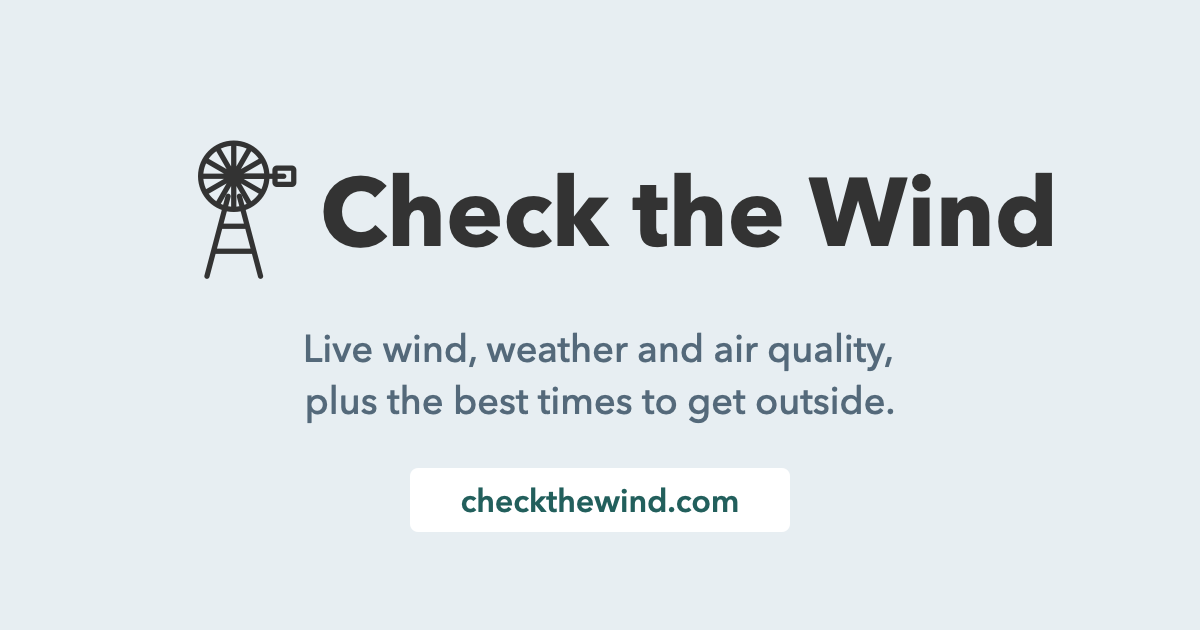
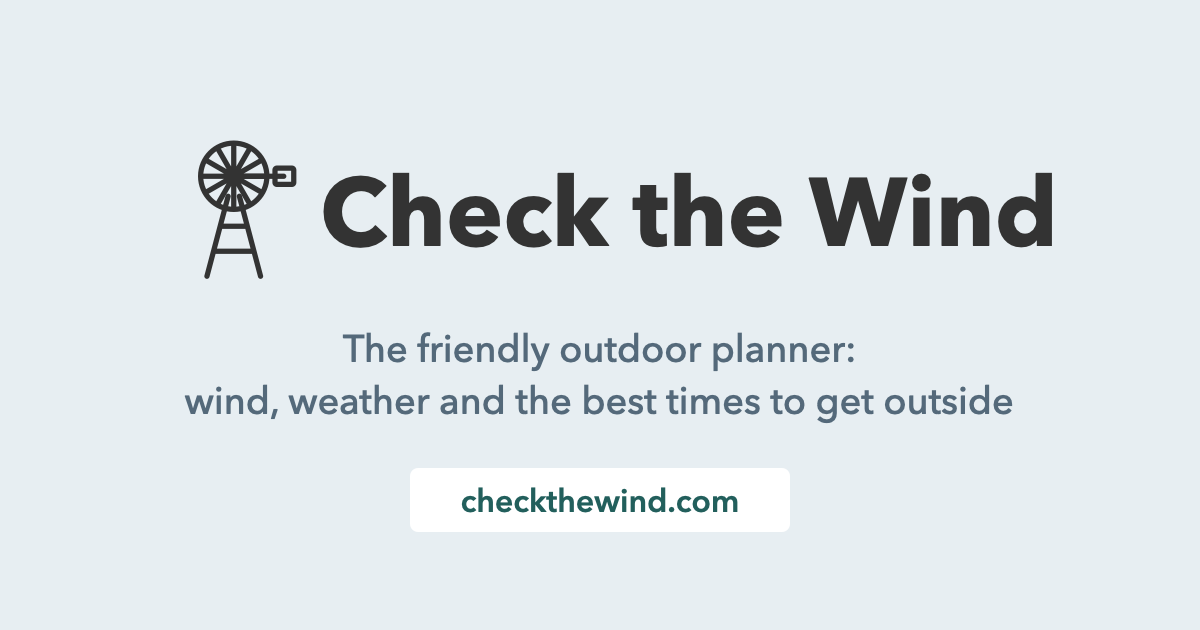
Precipitation wording uses the real type (rain, snow, sleet, mixed precip, hail); thumbnail copy updated
- Type comes from the forecast wording, or the temperature when the wording only gives a chance
- Applies to the hero sentence, weak points, reasons, Best Times cards and share text, the detail dialog row, and the Current Conditions ground hints
- Thumbnail: The friendly outdoor planner: wind, weather and the best times to get outside
- phrasing.csv updated

Changed region(s): [[0.1542, 0.5127, 0.8633, 0.6937]]

diff --git a/index.html b/index.html
@@ -2854,6 +2854,20 @@
     return '<svg width="'+size+'" height="'+size+'" viewBox="0 0 48 48" fill="none" xmlns="http://www.w3.org/2000/svg">'+body+'</svg>';
   }
 
+  // The kind of precipitation an hour is carrying: rain, snow, sleet, mixed precip or hail. The forecast wording decides; when it only
+  // gives a chance without a type, the temperature does (32°F or colder snow, up to 36°F mixed, otherwise rain).
+  function precipType(text, temp){
+    var t = String(text || '').toLowerCase();
+    if(/hail/.test(t)) return 'hail';
+    if(/wintry mix|mixed|rain and snow|snow and rain|rain\/snow|snow\/rain|rain or snow|snow or rain/.test(t)) return 'mixed precip';
+    if(/sleet|freezing rain|freezing drizzle|ice pellets|\bice\b/.test(t)) return 'sleet';
+    if(/snow|flurr|blizzard/.test(t)) return /rain|shower|drizzle/.test(t) ? 'mixed precip' : 'snow';
+    if(/rain|shower|drizzle|thunder|storm/.test(t)) return 'rain';
+    if(typeof temp === 'number'){ if(temp <= 32) return 'snow'; if(temp <= 36) return 'mixed precip'; }
+    return 'rain';
+  }
+  function aOrAn(n){ n = Math.round(n); return (n === 8 || n === 11 || n === 18 || (n >= 80 && n <= 89)) ? 'an' : 'a'; }
+
   function groundCondition(current, todayDaily){
     var temp = current.temperature;
     var freezing = typeof temp === 'number' && temp <= 32;
@@ -2865,13 +2879,13 @@
     var hasRain = /rain|shower|drizzle|thunderstorm/.test(text);
 
     if(hasIce || (freezing && hasRain)){
-      return {key:'icy', label:'Icy', hint:'Freezing temps with precipitation'};
+      return {key:'icy', label:'Icy', hint:'Freezing temps with ' + (hasIce && !hasRain ? 'sleet' : hasIce ? 'mixed precip' : 'rain')};
     }
     if(hasSnow && freezing){
       return {key:'snowy', label:'Snowy', hint:'Snow accumulating or expected'};
     }
     if(hasSnow || hasRain){
-      return {key:'wet', label:'Wet', hint:'Recent or expected precipitation'};
+      return {key:'wet', label:'Wet', hint:'Recent or expected ' + (hasSnow && hasRain ? 'mixed precip' : hasSnow ? 'snow' : 'rain')};
     }
     return {key:'dry', label:'Dry', hint:'No precipitation expected'};
   }
@@ -4729,7 +4743,8 @@
       if(!daylight) why.push('it\u2019s dark out');
       if(hz) why.push(hz.toLowerCase());
       if(mph >= P.wind) why.push('wind up to ' + fmtWind(mph));
-      if(P.pop < 100 && pop >= P.pop) why.push(Math.round(pop) + '% chance of precipitation');
+      var ptype = precipType(p.shortForecast, temp);
+      if(P.pop < 100 && pop >= P.pop) why.push(Math.round(pop) + '% chance of ' + ptype);
       if(icyOrSnowy) why.push('snowy or icy ground');
       if(temp < P.tmin) why.push('cold at ' + fmtTemp(temp));
       if(temp > P.tmax) why.push('hot at ' + fmtTemp(temp));
@@ -4747,7 +4762,7 @@
       wet = Math.min(1, wet * wetDecay(temp) + intensity * 0.6);
       frozen = Math.min(1, frozen * wetDecay(temp) + (frozenText ? intensity * 0.6 : 0));
 
-      return {i: i, iso: p.startTime, hour: hour, temp: temp, mph: mph, dir: p.windDirection || '', pop: pop, hum: hum, wet: groundNow, aqi: aqi, ok: ok, score: score, why: why, fc: p.shortForecast || ''};
+      return {i: i, iso: p.startTime, hour: hour, temp: temp, mph: mph, dir: p.windDirection || '', pop: pop, ptype: ptype, hum: hum, wet: groundNow, aqi: aqi, ok: ok, score: score, why: why, fc: p.shortForecast || ''};
     });
   }
 
@@ -5021,7 +5036,7 @@
     rows.push(['Sky', skies.join(', ') || 'NA']);
     var wLo = Math.round(Math.min.apply(null, winds)), wHi = Math.round(Math.max.apply(null, winds));
     rows.push(['Wind', (wLo === wHi ? fmtWind(wHi) : windNum(wLo) + '–' + fmtWind(wHi)) + ' · ' + band.label + (o.dir && dirWord(o.dir) ? ', from the ' + dirWord(o.dir) : '')]);
-    rows.push(['Chance of precipitation', 'Up to ' + Math.round(o.popMax) + '%']);
+    rows.push(['Chance of ' + (o.popMax >= 5 && o.ptype ? o.ptype : 'precipitation'), 'Up to ' + Math.round(o.popMax) + '%']);
     rows.push(['Ground', groundWord(o.wetMax)]);
     if(o.humVals.length){
       var hLo = Math.round(Math.min.apply(null, o.humVals)), hHi = Math.round(Math.max.apply(null, o.humVals));
@@ -5065,6 +5080,7 @@
       var tempText = (tempNum(tMinRaw) === tempNum(tMaxRaw) ? tempNum(tMaxRaw) : tempNum(tMinRaw) + '–' + tempNum(tMaxRaw)) + (useCelsius ? '°C' : '°F');
       var peak = h.reduce(function(a, x){ return x.mph > a.mph ? x : a; }, h[0]);
       var midHr = h[Math.floor(h.length / 2)];
+      var peakPop = h.reduce(function(a, x){ return x.pop > a.pop ? x : a; }, h[0]);
       var humVals = h.filter(function(x){ return x.hum !== null; }).map(function(x){ return x.hum; });
       var humAvg = humVals.length ? Math.round(humVals.reduce(function(a, b){ return a + b; }, 0) / humVals.length) : null;
       return {
@@ -5077,10 +5093,10 @@
         sky: midHr.fc || '',
         skyIcon: weatherIcon(midHr.fc, true, 30),
         summary: vdGoodSentence(vdAgg(h)),
-        detail: bestDetail(h, {day: day, time: when, temp: tempText, mph: mph, dir: peak.dir, popMax: popMax, wetMax: wetMax, aqiMax: aqiMax, humVals: humVals, humAvg: humAvg}),
+        detail: bestDetail(h, {day: day, time: when, temp: tempText, mph: mph, dir: peak.dir, popMax: popMax, ptype: peakPop.ptype, wetMax: wetMax, aqiMax: aqiMax, humVals: humVals, humAvg: humAvg}),
         shareHead: day + ', ' + new Date(dateStr + 'T12:00:00').toLocaleDateString('en-US', {month: 'short', day: 'numeric'}) + ', ' + when,
         shareConds: [tempText, ampText(midHr.fc || '').toLowerCase(), fmtWind(mph) + ' wind',
-          popMax < 5 ? 'no precipitation expected' : Math.round(popMax) + '% chance of precipitation'].filter(Boolean).join(', ')
+          popMax < 5 ? 'no precipitation expected' : Math.round(popMax) + '% chance of ' + peakPop.ptype].filter(Boolean).join(', ')
       };
     });
 
@@ -5257,6 +5273,11 @@
         var t = fmtH12(pk.hour);
         return t.n + ' ' + t.ap;
       })(),
+      popType: (function(){
+        var pk = hs[0];
+        hs.forEach(function(h){ if(h.pop > pk.pop) pk = h; });
+        return pk.ptype || 'rain';
+      })(),
       wet: Math.max.apply(null, hs.map(function(h){ return h.wet; })),
       aqi: aq.length ? Math.round(Math.max.apply(null, aq)) : null
     };
@@ -5286,16 +5307,15 @@
     if(a.wet < 0.15 && a.pop < 10){
       return vdCap(vdFeel(a.tAvg)) + ', ' + wind + ' and dry' + (air ? ', with ' + air : '') + '.';
     }
-    var an = a.pop === 8 || a.pop === 11 || a.pop === 18 || (a.pop >= 80 && a.pop <= 89);   // "an 8% chance", "a 30% chance"
-    var precip = a.pop >= 5 ? (an ? 'an ' : 'a ') + a.pop + '% chance of precipitation around ' + a.popAt : 'no precipitation expected';
+    var precip = a.pop >= 5 ? aOrAn(a.pop) + ' ' + a.pop + '% chance of ' + a.popType + ' around ' + a.popAt : 'no precipitation expected';
     return vdCap(vdFeel(a.tAvg)) + ' and ' + wind + ', with ' + precip + (air ? ' and ' + air : '') + '.';
   }
   function vdWeakPoints(a){
     var w = [];
     if(a.wMax >= 16) w.push('wind up to ' + fmtWind(a.wMax));
     if(a.tAvg < 40) w.push('chilly at ' + fmtTemp(a.tAvg)); else if(a.tAvg > 88) w.push('hot at ' + fmtTemp(a.tAvg));
-    if(a.pop >= 30) w.push(a.pop + '% chance of precipitation around ' + a.popAt);
-    else if(a.wet >= 0.15) w.push(a.pop >= 5 ? a.pop + '% chance of precipitation around ' + a.popAt : 'damp ground');
+    if(a.pop >= 30) w.push(a.pop + '% chance of ' + a.popType + ' around ' + a.popAt);
+    else if(a.wet >= 0.15) w.push(a.pop >= 5 ? a.pop + '% chance of ' + a.popType + ' around ' + a.popAt : 'damp ground');
     if(a.aqi !== null && a.aqi > 50) w.push('moderate air quality');
     return w;
   }
@@ -5375,7 +5395,7 @@
       // Stay Aware: it's fine to be out right now, but weather (rain, snow, wind, storms) arrives within the next 3 hours
       if(!severe && !r.night && (r.state === 'yes' || (r.state === 'maybe' && r.hs && r.hs[0].i === 0))){
         for(var k = 1; k <= 3 && k < hrs.length; k++){
-          var wx = hrs[k].why.filter(function(w){ return /^(thunderstorms|rain|showers|snow)$|chance of precipitation|^wind up to|snowy or icy/.test(w); });
+          var wx = hrs[k].why.filter(function(w){ return /^(thunderstorms|rain|showers|snow)$|chance of (?:rain|snow|sleet|mixed precip|hail|precipitation)|^wind up to|snowy or icy/.test(w); });
           if(wx.length){ r.incoming = {i: k, why: wx}; break; }
         }
       }
@@ -5405,7 +5425,7 @@
       if(/dark out/.test(w)) phrases.push('the light fades');
       else if(/^(thunderstorms|rain|showers|snow)$/.test(w)) phrases.push('expect ' + w);
       else if((m = /^wind up to (\d+) (mph|km\/h)/.exec(w))) phrases.push('winds pick up to ' + m[1] + ' ' + m[2]);
-      else if((m = /^(\d+)% chance of precipitation/.exec(w))) phrases.push('the chance of precipitation rises to ' + m[1] + '%');
+      else if((m = /^(\d+)% chance of (rain|snow|sleet|mixed precip|hail|precipitation)/.exec(w))) phrases.push('the chance of ' + m[2] + ' rises to ' + m[1] + '%');
       else if((m = /^cold at (\S+)/.exec(w))) phrases.push('it drops to ' + m[1]);
       else if((m = /^hot at (\S+)/.exec(w))) phrases.push('it heats up to ' + m[1]);
       else if(/snowy or icy/.test(w)) phrases.push('the ground turns snowy or icy');
@@ -5452,7 +5472,7 @@
   function vdNowClause(w){
     var m;
     if((m = /^wind up to (.+)$/.exec(w))) return 'winds up to ' + m[1];
-    if((m = /^(\d+% chance of precipitation)$/.exec(w))) return 'a ' + m[1];
+    if((m = /^(\d+)(% chance of (?:rain|snow|sleet|mixed precip|hail|precipitation))$/.exec(w))) return aOrAn(+m[1]) + ' ' + m[1] + m[2];
     if((m = /^cold at (.+)$/.exec(w))) return 'it’s cold at ' + m[1];
     if((m = /^hot at (.+)$/.exec(w))) return 'it’s hot at ' + m[1];
     if((m = /^poor air quality (\(.+\))$/.exec(w))) return 'air quality is poor ' + m[1];
@@ -5645,19 +5665,21 @@
   /* Option 3: a bold headline and one gray detail line. Activities, the after-window note and the rest live with each Best Times window. */
   function vdClock(h){ var t = fmtH12(h.hour); return t.n + ' ' + t.ap; }
   function vdWxWord(w){
+    var m;
     if(/^thunderstorms$/.test(w)) return 'storms';
     if(/^(rain|showers|snow)$/.test(w)) return w;
-    if(/chance of precipitation/.test(w)) return 'rain';
+    if((m = /chance of (rain|snow|sleet|mixed precip|hail|precipitation)/.exec(w))) return m[1] === 'precipitation' ? 'rain' : m[1];
     if(/^wind up to/.test(w)) return 'wind';
     if(/snowy or icy/.test(w)) return 'ice';
     return 'rough weather';
   }
   function vdWhyShort(w){
+    var m;
     if(/dark out/.test(w)) return 'Dark out';
     if(/^thunderstorms$/.test(w)) return 'Storms';
     if(/^(rain|showers|snow)$/.test(w)) return vdCap(w);
     if(/^wind up to/.test(w)) return 'Windy';
-    if(/chance of precipitation/.test(w)) return 'Rain likely';
+    if((m = /chance of (rain|snow|sleet|mixed precip|hail|precipitation)/.exec(w))) return (m[1] === 'precipitation' ? 'Rain' : vdCap(m[1])) + ' likely';
     if(/snowy or icy/.test(w)) return 'Icy ground';
     if(/^cold at/.test(w)) return 'Cold';
     if(/^hot at/.test(w)) return 'Hot';

diff --git a/phrasing/build_phrasing.py b/phrasing/build_phrasing.py
@@ -24,7 +24,7 @@ a('Verdict word','Verdict card (details)','Yes / Maybe / No','Matches the verdic
 S='One-line summary'
 sw='Verdict card, first sentence'
 a(S,sw,'[Freezing/Cold/Cool/Mild/Warm/Hot], [calm/breezy/windy/blustery/howling] and dry, with [good/moderate] air quality.','Verdict is Yes (no alert), the ground is dry (wetness under 0.15) and the chance of precipitation in the window is under 10%.','Feel from average temp: under 32 freezing, under 45 cold, under 58 cool, under 72 mild, under 85 warm, otherwise hot. Wind from the top wind in the window (see Wind categories). Air: AQI 50 or less is "good air quality", higher is "moderate air quality"; left out if AQI is unknown.')
-a(S,sw,'[Feel] and [wind], with a [N]% chance of precipitation around [time] and [good/moderate] air quality. / ... with no precipitation expected and ...','Same cases as above, when the ground is damp or wet (0.15 or more) or the chance of precipitation in the window is 10% or more.','Chance is the highest in the window; the time is the hour that chance peaks. "No precipitation expected" when the chance is under 5%. Replaces the old "damp" / "wet" wording.')
+a(S,sw,'[Feel] and [wind], with a [N]% chance of [rain / snow / sleet / mixed precip / hail] around [time] and [good/moderate] air quality. / ... with no precipitation expected and ...','Same cases as above, when the ground is damp or wet (0.15 or more) or the chance of precipitation in the window is 10% or more.','Chance is the highest in the window; the time is the hour that chance peaks. "No precipitation expected" when the chance is under 5%. Replaces the old "damp" / "wet" wording.')
 a(S,sw,'Okay for now, but not ideal: [weak points].','Verdict is Maybe and the window starts now.','Up to 2 weak points (see Weak points).')
 a(S,sw,'Not right now — [reasons]. Later: [the Yes sentence, lowercased]','Verdict is Maybe with a window later today.','Up to 2 reasons (see Reasons a time is ruled out).')
 a(S,sw,'Better to skip it for now: [reasons].','Verdict is No.','Up to 2 reasons; a Severe/Extreme alert is listed first as "an active [alert]".')
@@ -34,14 +34,14 @@ a(S,'Verdict card, below the sentence','No good window in the next 48 hours.','V
 a(S,'Verdict card, bottom','Active alert: [event]. Check the details before heading out.','Any active alert that is NOT Severe/Extreme (e.g. an advisory).')
 
 W='Weak points'
-for ph,wh in [('wind up to [N] mph','Top wind in the window is 16 mph or more.'),('chilly at [N]°F','Average temp under 40°F.'),('hot at [N]°F','Average temp over 88°F.'),('[N]% chance of precipitation around [time]','Chance of precipitation is 30% or more; also used instead of "damp ground" when the ground is damp and the chance is 5% or more.'),('damp ground','Ground wetness is 0.15 or more and the chance of precipitation is under 5%.'),('moderate air quality','AQI is above 50.')]:
+for ph,wh in [('wind up to [N] mph','Top wind in the window is 16 mph or more.'),('chilly at [N]°F','Average temp under 40°F.'),('hot at [N]°F','Average temp over 88°F.'),('[N]% chance of [rain / snow / sleet / mixed precip / hail] around [time]','Chance of precipitation is 30% or more; also used instead of "damp ground" when the ground is damp and the chance is 5% or more.'),('damp ground','Ground wetness is 0.15 or more and the chance of precipitation is under 5%.'),('moderate air quality','AQI is above 50.')]:
     a(W,'Okay for now text',ph,wh)
 
 Rs='Reasons a time is ruled out'
 for ph,wh,n in [('it’s dark out','No daylight at that hour (uses real sunrise/sunset).',''),
  ('thunderstorms / snow / showers / rain','Forecast shows that precipitation type (not just a "chance of").',''),
  ('wind up to [N] mph','Wind at or above the Best Times wind limit.','Default limit 25 mph'),
- ('[N]% chance of precipitation','Chance at or above the limit.','Default limit 40%'),
+ ('[N]% chance of [rain / snow / sleet / mixed precip / hail]','Chance at or above the limit.','Default limit 40%. The type comes from the forecast wording for that hour (hail, mixed / wintry mix, sleet or freezing rain, snow, rain or showers), or from the temperature when the wording only gives a chance: 32°F or colder snow, up to 36°F mixed precip, otherwise rain'),
  ('snowy or icy ground','Ice/snow in the forecast or on the ground.',''),
  ('cold at [N]°F','Below the minimum temperature.','Default 25°F'),
  ('hot at [N]°F','Above the maximum temperature.','Default 100°F'),
@@ -96,12 +96,12 @@ for s in ['This is great weather to [activities].','It’s a lovely time to [act
 a(P,pw,'Even a short outing should feel nice.','Yes/Maybe but no activity fits.')
 a(P,pw,'You can head out right now, though conditions aren’t the dreamiest. Keep an eye out for [weak points]. [Activities sentence] [After-window sentence]','Verdict is Maybe and the window starts now.')
 a(P,pw,'[Why it is not good right now], so hang tight: [day] [time] looks like a lovely time to get outside. Then it will be [summary]. [Activities sentence] [After-window sentence]','Verdict is Maybe with a window later today.','Up to two reasons, e.g. "Winds up to 33 mph right now, so hang tight: today from 5 to 7 PM looks like a lovely time…"')
-for ph,wh in [('it’s dark out','No daylight right now.'),('winds up to [N] mph','Wind at or above the limit.'),('a [N]% chance of precipitation','Chance of precipitation at or above the limit.'),('it’s raining / it’s snowing / there are showers around / there are thunderstorms around','Precipitation in the forecast right now.'),('the ground is snowy or icy','Ice or snow on the ground.'),('the ground is wet','Wet ground (when that setting is on).'),('it’s cold at [temp] / it’s hot at [temp]','Outside the temperature limits.'),('air quality is poor (AQI [N])','AQI above the limit.'),('it’s humid','Humidity above the limit.')]:
+for ph,wh in [('it’s dark out','No daylight right now.'),('winds up to [N] mph','Wind at or above the limit.'),('a [N]% chance of [rain / snow / sleet / mixed precip / hail]','Chance of precipitation at or above the limit.'),('it’s raining / it’s snowing / there are showers around / there are thunderstorms around','Precipitation in the forecast right now.'),('the ground is snowy or icy','Ice or snow on the ground.'),('the ground is wet','Wet ground (when that setting is on).'),('it’s cold at [temp] / it’s hot at [temp]','Outside the temperature limits.'),('air quality is poor (AQI [N])','AQI above the limit.'),('it’s humid','Humidity above the limit.')]:
     a(P,pw,ph,wh + ' Used in the "so hang tight" line.','')
 
 AF='After-window sentence'
 a(AF,'End of the Yes / Maybe paragraph','After [time], [phrases].','A good window is followed by an hour that is ruled out. Shows up to 2 phrases.','')
-for ph,wh in [('the light fades','Next hour is dark (see the night variations below)'),('expect [thunderstorms/rain/showers/snow]','Precipitation arrives'),('winds pick up to [N] mph','Wind reaches the limit'),('the chance of precipitation rises to [N]%','Precip chance reaches the limit'),('it drops to [N]°F','Gets too cold'),('it heats up to [N]°F','Gets too hot'),('the ground turns snowy or icy','Ice/snow on the ground'),('air quality worsens (AQI [N])','AQI above the limit'),('it gets humid','Humidity above the limit'),('the ground gets wet','Wet ground'),('conditions turn less ideal','Fallback when none of the above applies')]:
+for ph,wh in [('the light fades','Next hour is dark (see the night variations below)'),('expect [thunderstorms/rain/showers/snow]','Precipitation arrives'),('winds pick up to [N] mph','Wind reaches the limit'),('the chance of [rain / snow / sleet / mixed precip / hail] rises to [N]%','Precip chance reaches the limit'),('it drops to [N]°F','Gets too cold'),('it heats up to [N]°F','Gets too hot'),('the ground turns snowy or icy','Ice/snow on the ground'),('air quality worsens (AQI [N])','AQI above the limit'),('it gets humid','Humidity above the limit'),('the ground gets wet','Wet ground'),('conditions turn less ideal','Fallback when none of the above applies')]:
     a(AF,'Phrase used in the After sentence',ph,wh)
 a(AF,'Phrase when darkness is the only change','the light fades but it stays [clear / mostly clear / partly cloudy] and [calm / breezy / windy]','Next hour is dark only, with clear or partly cloudy skies.','Calm under 8 mph, breezy under 16, otherwise windy')
 a(AF,'Phrase when darkness is the only change','the light fades, with [mostly cloudy / cloudy] skies and [calm / breezy / windy] conditions','Next hour is dark only, cloudy.')
@@ -156,12 +156,12 @@ a(B,'Best Times cards','[low–high]°F (large) with the sky icon for the middle
 a(B,'Best Times cards','Same sentence as the verdict card’s Yes line, built from the window: [Feel], [wind] and dry, with [air quality] / [Feel] and [wind], with a [N]% chance of precipitation around [time] and [air quality]','Every card.','See the One-line summary rows for the thresholds')
 a(B,'Best Times cards','(No visible label) Tapping or clicking a card opens its detail dialog; screen readers hear “[Day] [time], show details”','Every card.','A small arrow at the right of the card header hints that the card opens')
 a(B,'Best Times detail dialog','Title: [Day] · [time range]; the place name; the summary sentence','Card detail dialog.')
-a(B,'Best Times detail dialog','Temperature: [low–high] across the window | Sky: [forecasts in the window] | Wind: [low–high] · [Calm…Howling], from the [direction] | Chance of precipitation: Up to [N]% | Ground: [Dry/Damp/Wet] | Humidity: [low–high], average [N]% | Air quality: AQI up to [N] · [Good air…]','Card detail dialog, top list.','NA when a value is not available')
+a(B,'Best Times detail dialog','Temperature: [low–high] across the window | Sky: [forecasts in the window] | Wind: [low–high] · [Calm…Howling], from the [direction] | Chance of [rain / snow / sleet / mixed precip / hail]: Up to [N]% | Ground: [Dry/Damp/Wet] | Humidity: [low–high], average [N]% | Air quality: AQI up to [N] · [Good air…]','Card detail dialog, top list.','NA when a value is not available')
 a(B,'Best Times detail dialog','Hour by hour: Hour | Temp | Sky | Wind | Precip | Humidity | AQI | Ground','Card detail dialog, table with one row per hour in the window.','NA when a value is not available')
 a(B,'Best Times share button','Share these best times (button name for screen readers; the button shows only a share icon)','Always, when there is at least one window.','Hidden when there is no best-time window')
-a(B,'Best Times share (phone and tablet)','Title: Best times to get outside in [place] | Text: Best times to get outside in [place]: / 1. [Day], [Mon D], [time range] / [temp], [sky], [N] mph wind, [N]% chance of precipitation / ... | Link: the page for that exact place','Share button on a touch device, opens the phone’s share sheet.','One entry per Best Times card. "no precipitation expected" when the chance is under 5%. The link carries the place (?lat=&lon=&place=) so a friend opens the same location')
+a(B,'Best Times share (phone and tablet)','Title: Best times to get outside in [place] | Text: Best times to get outside in [place]: / 1. [Day], [Mon D], [time range] / [temp], [sky], [N] mph wind, [N]% chance of [rain / snow / sleet / mixed precip / hail] / ... | Link: the page for that exact place','Share button on a touch device, opens the phone’s share sheet.','One entry per Best Times card. "no precipitation expected" when the chance is under 5%; the type is the one at the hour the chance peaks. The link carries the place (?lat=&lon=&place=) so a friend opens the same location')
 a(B,'Best Times share (desktop)','The same text, then a blank line and the link, copied to the clipboard; a short message says: Link and summary copied. Paste it to a friend.','Share button on a computer.','If copying is blocked the browser shows the link in a prompt: "Copy this link to share:"')
-a(B,'Link preview image','Check the Wind logo windmill with "Check the Wind", "Live wind, weather and air quality, plus the best times to get outside." and checkthewind.com (og-image.png, 1200 x 630)','When the site link is shared in Messages, WhatsApp, Slack, Facebook, X and similar.','Same image for every place; the page title and description come from the meta tags')
+a(B,'Link preview image','Check the Wind logo windmill with "Check the Wind", "The friendly outdoor planner: wind, weather and the best times to get outside" and checkthewind.com (og-image.png, 1200 x 630)','When the site link is shared in Messages, WhatsApp, Slack, Facebook, X and similar.','Same image for every place; the page title and description come from the meta tags')
 
 WD='Wind categories'
 for lab,r in [('Calm','under 8 mph'),('Breezy','8–15 mph'),('Windy','16–24 mph'),('Blustery','25–33 mph'),('Howling','34 mph and up')]:
@@ -169,9 +169,9 @@ for lab,r in [('Calm','under 8 mph'),('Breezy','8–15 mph'),('Windy','16–24 m
 a(WD,'Wind sentences (older phrasing)','calm winds / a steady breeze / windy conditions / blustery winds / howling winds','Words for the same five bands where a noun phrase is needed.')
 
 G='Ground conditions'
-a(G,'Current Conditions row','Icy — Freezing temps with precipitation','Forecast mentions ice/sleet/freezing rain, or it is 32°F or colder with rain.')
+a(G,'Current Conditions row','Icy — Freezing temps with [rain / sleet / mixed precip]','Forecast mentions ice/sleet/freezing rain, or it is 32°F or colder with rain.')
 a(G,'Current Conditions row','Snowy — Snow accumulating or expected','Snow in the forecast and 32°F or colder.')
-a(G,'Current Conditions row','Wet — Recent or expected precipitation','Rain/showers/drizzle/thunderstorms or snow above freezing.')
+a(G,'Current Conditions row','Wet — Recent or expected [rain / snow / mixed precip]','Rain/showers/drizzle/thunderstorms or snow above freezing.')
 a(G,'Current Conditions row','Dry — No precipitation expected','None of the above.')
 a(G,'Hero rain/storm outlook','[Rain / Snow] ends in ~[time]  |  [Showers / Thunderstorms / High winds] end in ~[time]  |  [type] [possible] in ~[time]','Precipitation or high wind is active / about to start within 6 hours.','Time rounded to 5 minutes, then hours')
 
